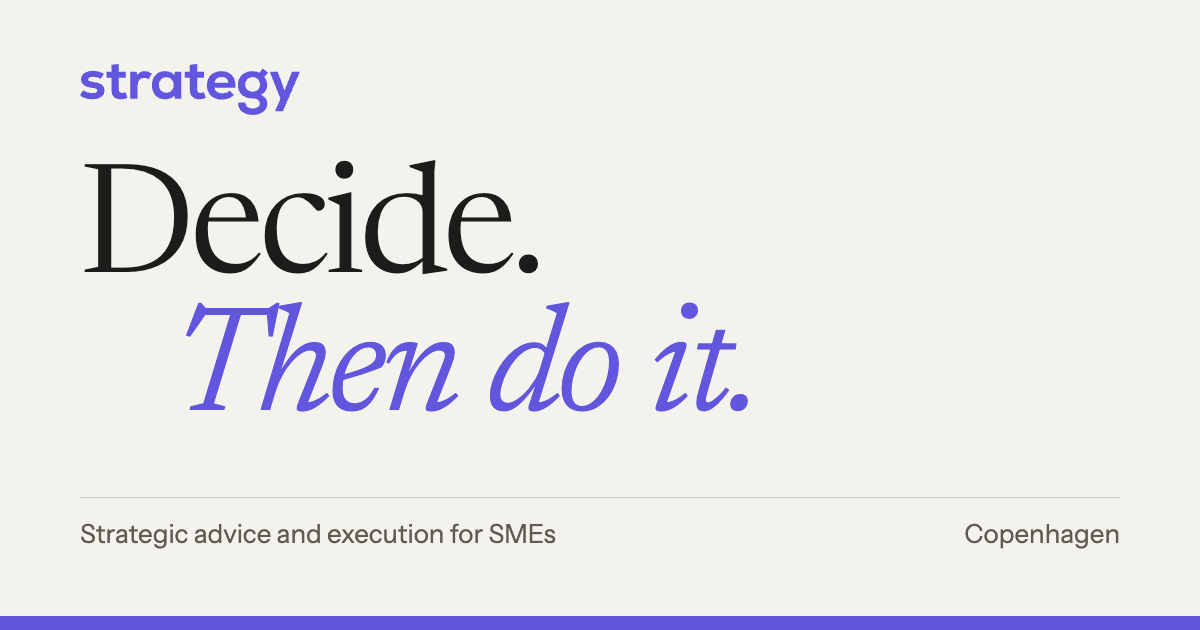
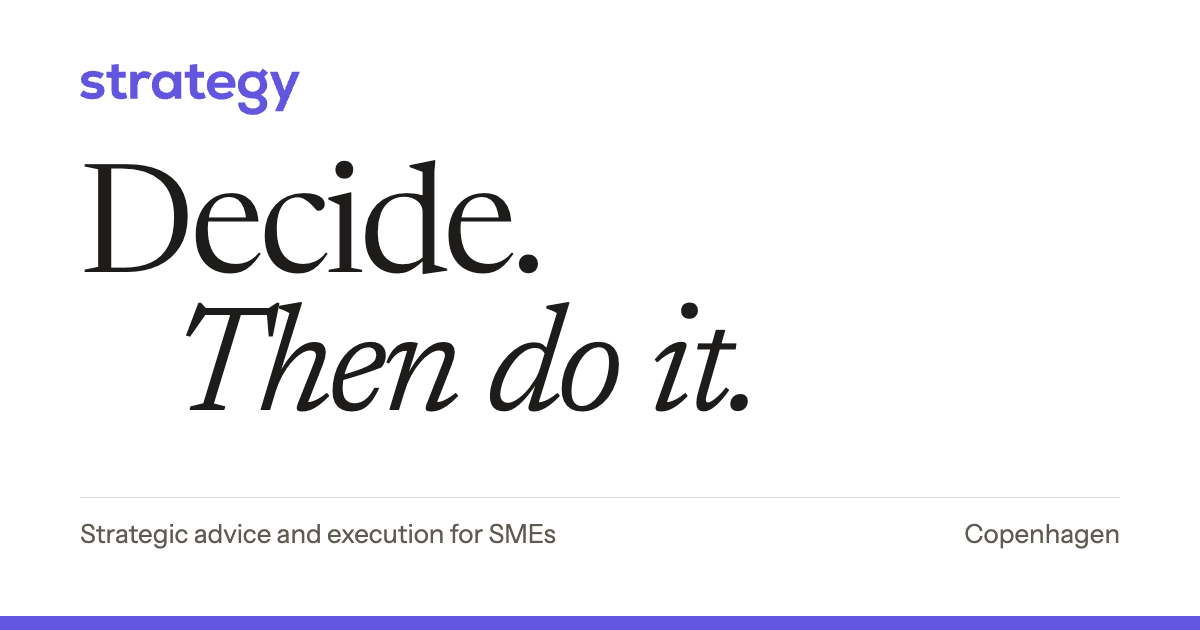
web-s4: palette B – white page, grey panels instead of rules, purple only for accents and contact

Changed region(s): [[0.1542, 0.4825, 0.6475, 0.6635], [0.1542, 0.573, 0.185, 0.6635], [0.555, 0.4825, 0.5858, 0.5127]]

diff --git a/src/styles/global.css b/src/styles/global.css
@@ -3,15 +3,15 @@
 @font-face { font-family: "Newsreader"; src: url(../assets/fonts/newsreader-latin-wght-italic.woff2) format("woff2"); font-weight: 200 800; font-style: italic; font-display: swap; }
 @font-face { font-family: "Instrument Sans"; src: url(../assets/fonts/instrument-sans-latin-wght-normal.woff2) format("woff2"); font-weight: 400 700; font-display: swap; }
 :root {
-  --paper: #f4f2ec;
-  --paper-deep: #e9e6de;
+  --paper: #ffffff;
+  --paper-deep: #eeece8;
+  --panel: #f2f1ee;
   --ink: #1d1c1a;
   --muted: #5f5a52;
   --rule: rgb(29 28 26 / .16);
   --accent: #6156dd;
   --accent-strong: #4a40c4;
-  --accent-soft: #ebe9fb;
-  --serif: "Newsreader", Georgia, serif;
+    --serif: "Newsreader", Georgia, serif;
   --sans: "Instrument Sans", system-ui, sans-serif;
   --step--1: .875rem; --step-0: 1.0625rem; --step-1: 1.25rem; --step-2: clamp(1.5rem, 1.2rem + 1.2vw, 2.125rem);
   --step-3: clamp(2.25rem, 1.5rem + 3vw, 3.75rem); --step-hero: clamp(3.5rem, 1.5rem + 9vw, 9.5rem);
@@ -25,7 +25,7 @@ img { display: block; max-width: 100%; }
 a { color: inherit; }
 .wrap { width: min(100% - 2.5rem, var(--wrap)); margin-inline: auto; }
 
-.top { position: sticky; top: 0; z-index: 10; background: rgb(244 242 236 / .92); backdrop-filter: blur(8px); border-bottom: 1px solid var(--rule); }
+.top { position: sticky; top: 0; z-index: 10; background: rgb(255 255 255 / .92); backdrop-filter: blur(8px); border-bottom: 1px solid var(--rule); }
 .top .wrap { display: flex; align-items: center; gap: 2rem; height: 4rem; }
 .logo { width: 108px; height: auto; color: var(--accent); }
 .top nav { margin-left: auto; display: flex; gap: 1.5rem; }
@@ -43,26 +43,26 @@ a { color: inherit; }
 .menu .sheet a { padding: .55rem 0; text-decoration: none; border-bottom: 1px solid var(--rule); font-family: var(--serif); font-size: 1.25rem; }
 .menu .sheet a:last-child { border: 0; }
 
-.hero { padding-block: clamp(4rem, 3rem + 7vw, 9rem) var(--space-xl); border-bottom: 1px solid var(--ink); }
+.hero { padding-block: clamp(4rem, 3rem + 7vw, 9rem) var(--space-xl); }
 .hero h1 { margin: 0; font-family: var(--serif); font-weight: 350; font-size: var(--step-hero); line-height: .92; letter-spacing: -.03em; font-optical-sizing: auto; }
 .hero h1 span { display: block; }
-.hero h1 span + span { font-style: italic; color: var(--accent); padding-left: .6em; }
-.hero .foot { display: grid; grid-template-columns: 1fr auto; align-items: end; gap: var(--space-m); margin-top: var(--space-l); padding-top: var(--space-m); border-top: 1px solid var(--rule); }
+.hero h1 span + span { font-style: italic; padding-left: .6em; }
+.hero .foot { display: grid; grid-template-columns: 1fr auto; align-items: end; gap: var(--space-m); margin-top: var(--space-l); padding-top: var(--space-m); }
 .hero p { margin: 0; max-width: 32rem; font-family: var(--serif); font-size: var(--step-2); line-height: 1.3; }
 
-section.block { padding-block: var(--space-xl); border-bottom: 1px solid var(--ink); }
+section.block { padding-block: var(--space-xl); }
+section.tint { background: var(--panel); }
 .cols { display: grid; grid-template-columns: 14rem 1fr; gap: var(--space-m) 3rem; }
 .label { display: flex; align-items: baseline; gap: .4em; margin: 0; font-family: var(--serif); font-size: min(var(--step-3), 2.75rem); font-weight: 350; line-height: 1; letter-spacing: -.02em; }
 .label i { font-weight: 300; color: var(--accent); }
 .lead p { font-family: var(--serif); font-size: var(--step-2); line-height: 1.32; margin: 0 0 1.25rem; max-width: 44rem; font-weight: 380; }
-.two { display: grid; grid-template-columns: 1fr 1fr; gap: 3rem; margin-top: var(--space-l); padding-top: var(--space-m); border-top: 1px solid var(--rule); }
+.two { display: grid; grid-template-columns: 1fr 1fr; gap: 3rem; margin-top: var(--space-l); padding-top: var(--space-m); }
 .two h3 { margin: 0 0 .5rem; font-size: var(--step-0); font-weight: 600; }
 .two p { margin: 0; color: var(--muted); }
 
 .intro { margin: 0 0 var(--space-l); font-family: var(--serif); font-style: italic; font-size: var(--step-1); color: var(--muted); }
 .steps { list-style: none; margin: 0; padding: 0; }
-.steps li { display: grid; grid-template-columns: 4rem 16rem 1fr; gap: 1rem 2rem; padding-block: 1.75rem; border-top: 1px solid var(--rule); }
-.steps li:last-child { border-bottom: 1px solid var(--rule); }
+.steps li { display: grid; grid-template-columns: 4rem 16rem 1fr; gap: 1rem 2rem; padding-block: 1.75rem; }
 .steps .n { font-family: var(--serif); font-size: 2.25rem; font-weight: 300; line-height: 1; color: var(--accent); font-variant-numeric: oldstyle-nums; }
 .steps h3 { margin: 0; font-family: var(--serif); font-size: var(--step-3); font-weight: 400; line-height: 1; letter-spacing: -.02em; }
 .steps .sub { margin: .5rem 0 0; font-size: var(--step--1); color: var(--muted); }
@@ -71,16 +71,15 @@ section.block { padding-block: var(--space-xl); border-bottom: 1px solid var(--i
 .people { display: grid; grid-template-columns: 1fr 1fr; gap: 3rem; margin-top: var(--space-l); }
 .person .pic { width: 100%; aspect-ratio: 4 / 5; object-fit: cover; filter: grayscale(1) contrast(1.04); background: var(--paper-deep); mix-blend-mode: multiply; }
 .person h3 { margin: 1.25rem 0 0; font-family: var(--serif); font-size: var(--step-2); font-weight: 400; }
-.person .role { margin: 0 0 1rem; font-size: var(--step--1); color: var(--accent); font-weight: 600; }
+.person .role { margin: 0 0 1rem; font-size: var(--step--1); color: var(--muted); font-weight: 600; }
 .person .bio p { margin: 0 0 1.25rem; }
-dl.facts { display: grid; grid-template-columns: 7rem 1fr; gap: .5rem 1rem; margin: 0 0 1.25rem; padding-top: 1rem; border-top: 1px solid var(--rule); font-size: var(--step--1); }
+dl.facts { display: grid; grid-template-columns: 7rem 1fr; gap: .5rem 1rem; margin: 0 0 1.25rem; padding-top: 1rem; font-size: var(--step--1); }
 dl.facts dt { color: var(--muted); }
 dl.facts dd { margin: 0; }
 .more { font-size: var(--step--1); font-weight: 600; color: var(--accent); text-underline-offset: .25em; }
 
 .netlist { margin-top: var(--space-l); }
-.net { display: grid; grid-template-columns: 5rem 15rem 1fr; gap: 1rem 2rem; padding-block: 1.75rem; border-top: 1px solid var(--rule); }
-.net:last-child { border-bottom: 1px solid var(--rule); }
+.net { display: grid; grid-template-columns: 5rem 15rem 1fr; gap: 1rem 2rem; padding-block: 1.75rem; }
 .net .pic { width: 5rem; height: 5rem; object-fit: cover; border-radius: 50%; filter: grayscale(1); }
 .net h3 { margin: 0; font-family: var(--serif); font-size: 1.5rem; font-weight: 400; line-height: 1.15; }
 .net .meta { margin: .35rem 0 0; font-size: var(--step--1); color: var(--muted); }
